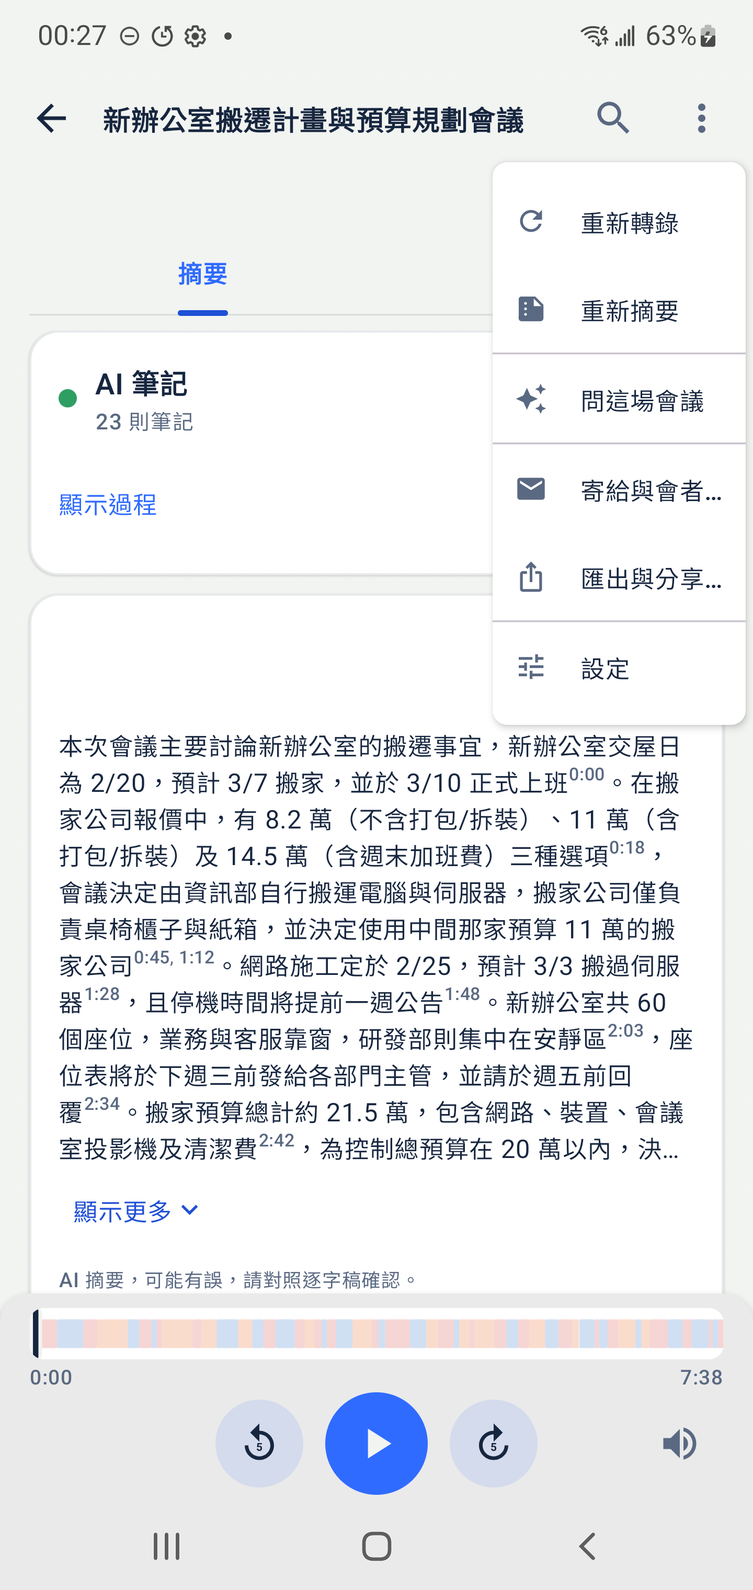
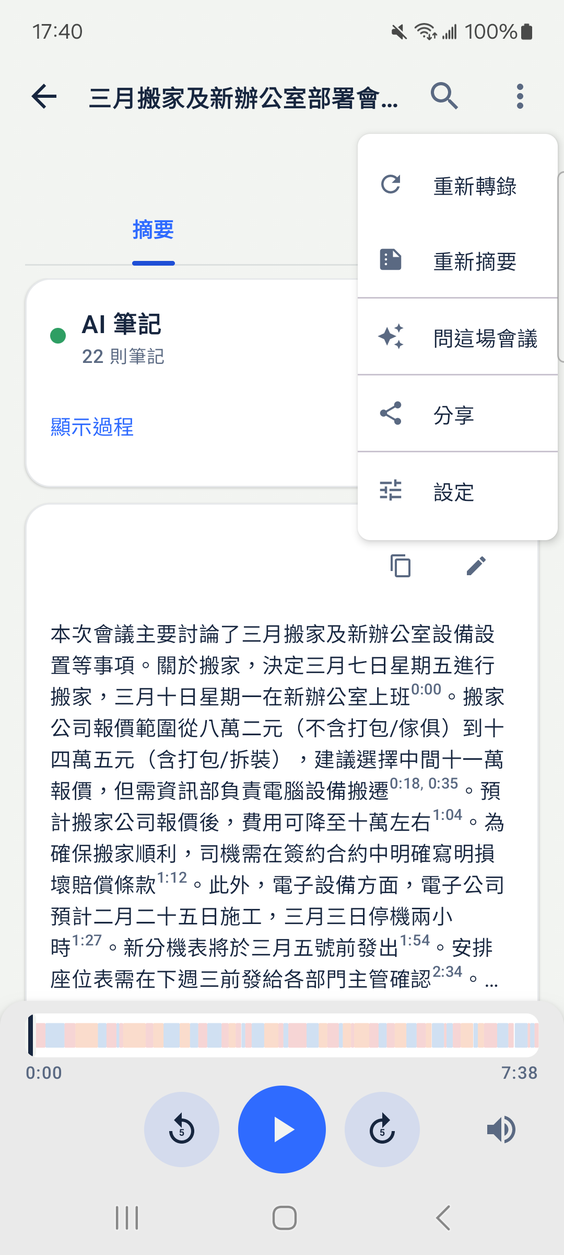
docs(android): Share sheet guide (what/where, PDF|Word), import from the cloud (#7), background episode check
Reshot on the Galaxy A53 with demo meetings: library chips and Podcast
grouping, row and session menus, share sheet, PDF pages, Word document,
mail app chooser, import sheet, background-check setting, channel page,
received meeting; new share.gif. Removed the old Export / Email
participants media and text; README feature and privacy lines updated.

diff --git a/docs/USER_GUIDE.md b/docs/USER_GUIDE.md
@@ -12,15 +12,14 @@
 ```mermaid
 flowchart TD
     Home["首頁（場次庫）"]
-    Home -->|"⋮"| RowMenu["場次選單<br/>開啟・重新命名・分享音訊・刪除<br/>立即處理・從佇列移除・停止處理"]
+    Home -->|"⋮"| RowMenu["場次選單<br/>開啟・重新命名・分享・刪除<br/>立即處理・從佇列移除・停止處理"]
     Home -->|長按| Select["多選模式<br/>全選・刪除"]
     Home -->|搜尋框| Search["依語意搜尋・提問<br/>（第 1a 節）"]
     Home -->|＋| Add["加入音訊"]
-    Add --> File["音訊檔案"]
+    Add --> File["匯入<br/>音訊・影片・.pmin（含雲端硬碟）"]
     Add --> Podcast["Podcast"]
     Add --> Shows["節目（訂閱）"]
     Podcast --> Shows
-    Add --> Open["開啟場次 .ogg/.m4a"]
     Home -->|設定圖示| Settings["設定"]
     Home -->|錄音| Booth["錄音室<br/>即時逐字稿・AI 筆記"]
     Booth -->|下一場| Booth
@@ -29,17 +28,16 @@ flowchart TD
     File --> Session
     Podcast --> Session
     Shows --> Session
-    Open --> Session
     Session --> Summary["摘要分頁<br/>AI 筆記卡片・摘要・語者比例"]
     Settings --> People["說話者名錄<br/>辨識聲音・人物頁"]
-    People --> Contact["人物頁：手機聯絡人・電子郵件"]
+    People --> Contact["人物頁：手機聯絡人"]
     Session --> Transcript["逐字稿分頁<br/>點句播放・長按選單・語者是誰？"]
     Session -->|"放大鏡"| InSearch["在這場會議內搜尋<br/>AI 筆記・逐字稿・≈・✦ 問這場會議"]
     Transcript -->|"⇕"| Boundary["調整說話者分界<br/>拖曳・點字・‹ ›・試聽・從這裡分開・復原"]
     Session --> Player["播放列<br/>播放・±5 秒・進度・音量"]
-    Session -->|"⋮ 更多選項"| More["問這場會議・寄給與會者・重新轉錄・重新摘要・匯出與分享・設定"]
-    More --> Mail["寄給與會者<br/>收件人・內容・附件・預覽"]
-    More --> Export["匯出<br/>.m4a・PDF・MD・TXT・SRT・VTT・LRC"]
+    Session -->|"⋮ 更多選項"| More["問這場會議・分享・重新轉錄・重新摘要・設定"]
+    More --> Share["分享<br/>內容：整場會議・摘要＋逐字稿（PDF／Word）・只有錄音<br/>傳送到：附近・電子郵件・其他 App"]
+    RowMenu --> Share
     More --> Settings
     Recovery["復原對話框<br/>（錄音中被終止後）"] -->|完成轉錄| Session
 ```
@@ -106,7 +104,7 @@ flowchart TD
 
 ## 2. 場次 ⋮ 選單
 
-<img src="guide/02-row-menu.png" width="270" alt="場次選單"> <img src="guide/03-swipe-delete.png" width="270" alt="左滑刪除與復原"> <img src="guide/52-share-text-only.png" width="270" alt="Podcast 場次：不附音訊分享？">
+<img src="guide/02-row-menu.png" width="270" alt="場次選單"> <img src="guide/03-swipe-delete.png" width="270" alt="左滑刪除與復原"> <img src="guide/56-share-sheet.png" width="270" alt="分享面板">
 
 每列右側的 **⋮** 依場次狀態提供不同操作。
 
@@ -114,9 +112,7 @@ flowchart TD
 |---|---|---|---|
 | 開啟 | 已完成 | 開啟場次 | ✅ 手動 |
 | 重新命名 | 一律 | 對話框輸入新標題，確定後列上標題更新（新場次的預設標題為日期時間，如「10月6日 00:11」，摘要完成後換成 AI 擬的標題） | ✅ 手動 |
-| 分享會議 | 已完成 | 把整場會議（音訊、逐字稿、摘要、AI 筆記與你的修改）存成 `.pmin` 檔，透過系統分享面板送出（例如 Quick Share，或傳到 iPhone）；對方用 Prime Minutes 開啟後直接還原，不需模型、不必重新處理 | ✅ 手動（Note 10+ → Galaxy A53） |
-| 分享音訊 | 一律 | 系統分享面板，附 `.m4a` | ✅ 手動 |
-| 分享會議（線上來源） | 來自 Podcast 等線上來源的場次 | 先問「不附音訊分享？」：預設「只分享文字」（逐字稿與摘要的 .txt），也可選「附上音訊」 | ✅ 手動（Note 10+） |
+| 分享 | 已完成 | 開啟分享面板：先選內容，再選傳送到哪裡（第 2a 節） | ✅ 手動（Note 10+、Galaxy A53） |
 | 刪除（或在列上向左滑） | 一律 | 立即從清單移除，底部顯示「已刪除「…」」與 **復原**；幾秒內點復原即放回原處，否則才真正刪除 | ✅ 手動（Note 10+） |
 | 繼續處理 | 處理被中斷（停止、App 被終止）且已留有進度 | 從已存的最後穩定段落接續語音辨識，語者編號與先前一致；已完成的部分不重做 | ✅ 手動 |
 | 立即處理 | 未處理，或已排入佇列且沒有正在處理的項目 | 開始轉錄與摘要；在「停止」之後也能再次開始 | ✅ 手動 |
@@ -127,14 +123,40 @@ flowchart TD
 
 <img src="guide/29-resume-prompt.png" width="270" alt="繼續中斷的場次"> <img src="guide/30-resume-menu.png" width="270" alt="繼續處理">
 
-### 2a. 分享整場會議（.pmin）
+### 2a. 分享與匯出
 
-<img src="guide/02-row-menu.png" width="270" alt="場次動作：分享會議"> <img src="guide/52-share-text-only.png" width="270" alt="Podcast 場次：不附音訊分享？"> <img src="guide/55-received.png" width="270" alt="收到的會議：直接打開，提示可刪除原始檔">
+<img src="guide/56-share-sheet.png" width="270" alt="分享面板：內容"> <img src="guide/57-share-word.png" width="270" alt="摘要＋逐字稿：PDF 或 Word，附上錄音">
 
-1. **送出**：場次列的 ⋮（或場次畫面右上角 ⋮）→ **分享會議** → 在系統分享面板選 **Quick Share**（傳給 iPhone 時對方用 AirDrop 收的 iPhone 版也能開）。檔案是 `標題.pmin`，裡面有音訊、逐字稿、摘要、AI 筆記與你的修改。
-2. **Podcast 等線上來源的場次**：先問「不附音訊分享？」，預設 **只分享文字**（逐字稿與摘要的 .txt）；要連音訊一起送請選「附上音訊」。
-3. **接收**：在 Quick Share 通知或「我的檔案」點 `.pmin`。Samsung「我的檔案」會先跳出 App 選單，選 **Prime Minutes**；App 直接還原整場會議（不需模型、不必重新處理），列上標示 **收到的**，並提示「會議已存入 Prime Minutes，可以刪除「下載」中的原始檔案。」
-4. **重複收到同一場**：詢問「資料庫中已有這場會議」→「開啟現有的」或「保留副本」。
+場次列的 ⋮（或場次畫面右上角 ⋮）→ **分享**。面板分兩步：上面選 **內容**，下面選 **傳送到**。每個選項旁顯示檔案大小。
+
+**內容**
+
+1. **整場會議（.pmin）**：錄音、逐字稿、說話者、摘要、待辦事項、AI 筆記與你的修改，對方用 Prime Minutes（Android 或 iPhone）開啟後直接還原，不需模型、不必重新處理。
+2. **摘要＋逐字稿**：上方選 **PDF** 或 **Word**（記得上次的選擇）。文件依序是標題（日期、長度、與會者）、摘要、待辦事項、逐字稿；摘要與待辦事項裡的每個時間都連到它引用的那段逐字稿，那段旁邊有「↑ 摘要」可跳回。AI 筆記不放進文件（只在 .pmin 裡）。待辦事項一律附上，不受「顯示行動項目」設定影響。開啟 **附上錄音** 會另外附一個 `.m4a`；錄音很大或來自 Podcast 等線上來源時預設關閉。
+3. **只有錄音（.m4a）**。
+
+含錄音的選項會提醒「含所有與會者的聲音」；線上來源的場次提醒版權屬於發布者。
+
+**傳送到**
+
+- **附近（Quick Share）**：傳到旁邊的手機或電腦（傳給 iPhone 時，對方用 AirDrop 收的 iPhone 版也能開 .pmin）。
+- **電子郵件**：直接開啟郵件 App，檔案已附上、主旨是會議標題，由你填收件人再寄出；超過 25 MB 時提醒很多郵件伺服器會拒收。
+- **其他 App…**：系統分享面板（LINE 等）。
+
+App 不登入任何帳號，也不直接上傳到雲端。
+
+<img src="guide/59-pdf-page1.png" width="270" alt="PDF 第一頁：標題、摘要、待辦事項"> <img src="guide/60-pdf-transcript.png" width="270" alt="PDF 逐字稿頁：時間欄與說話者"> <img src="guide/61-docx.png" width="270" alt="Word 文件"> <img src="guide/62-mail-chooser.png" width="270" alt="電子郵件：選擇郵件 App，檔案已附上">
+
+**接收**：在 Quick Share 通知、「我的檔案」或雲端硬碟 App 點 `.pmin`（Samsung「我的檔案」會先跳出 App 選單，選 **Prime Minutes**）。App 直接還原整場會議，列上標示 **收到的**，並提示「會議已存入 Prime Minutes，可以刪除「下載」中的原始檔案。」；資料庫已有同一場時詢問「開啟現有的」或「保留副本」。
+
+<img src="guide/55-received.png" width="270" alt="收到的會議">
+
+| 節點 | 預期結果 | 驗證 |
+|---|---|---|
+| 分享面板 | 內容三選一（含大小）、PDF／Word、附上錄音、傳送到三類 | ✅ 手動（Note 10+、Galaxy A53）、✅ 自動（ShareKitTest） |
+| PDF／Word | 標題、摘要、待辦事項、逐字稿；時間連到逐字稿、「↑ 摘要」連回；無 AI 筆記 | ✅ 自動（PdfExportTest、DocxExportTest、ExportNotesTest） |
+| 電子郵件 | 只列郵件 App（有多個時讓你選），選定後開啟撰寫畫面，檔案已附上 | ✅ 手動（Galaxy A53：選擇畫面；撰寫畫面未截圖，避免顯示帳號） |
+| 收到 .pmin | 還原、標示「收到的」、重複時詢問 | ✅ 手動（Galaxy A53） |
 
 ## 3. 多選模式
 
@@ -152,19 +174,18 @@ flowchart TD
 
 ## 4. 加入音訊
 
-<img src="guide/07-add-source.png" width="270" alt="加入音訊"> <img src="guide/54-online-notice.png" width="270" alt="匯入前請留意"> <img src="guide/08-podcast.png" width="270" alt="Podcast">
+<img src="guide/63-import-cloud.png" width="270" alt="加入音訊：匯入（含雲端）"> <img src="guide/54-online-notice.png" width="270" alt="匯入前請留意"> <img src="guide/08-podcast.png" width="270" alt="Podcast">
 
 處理事先錄好的音訊。也可以從其他 App 把音訊「分享」給 Prime Minutes。
 
 | 節點 | 如何到達 | 預期結果 | 驗證 |
 |---|---|---|---|
-| 音訊檔案 | ＋ → 音訊檔案 | 系統檔案選擇器；選取後轉錄並摘要（長時間的靜音會快速略過） | ✅ 手動、✅ 自動（AddSourceSheetTest） |
+| 匯入 | ＋ → 匯入 | 系統檔案選擇器，可選音訊、影片或 `.pmin` 會議，也可從 Google Drive、Dropbox、OneDrive 選檔（第 4b 節）；音訊與影片轉錄並摘要（長時間的靜音會快速略過），`.pmin` 直接還原 | ✅ 手動、✅ 自動（AddSourceSheetTest） |
 | Podcast → 搜尋 → 節目 → 轉錄 | ＋ → Podcast | 列出單集與長度；選取後首頁立刻出現這一集（標題即單集名稱），標示下載進度，下載完成後自動轉錄（正在處理其他項目時排在其後） | ✅ 手動、✅ 自動（SourceSheetsTest，搜尋） |
 
 <img src="guide/27-podcast-episodes.png" width="270" alt="Podcast 單集">
 | YouTube／PeerTube 連結 | 其他 App 把 YouTube 或 PeerTube 連結傳給 Prime Minutes（Prime Minutes 不在文字的分享選單中，一般不會發生） | 不再匯入：顯示「不支援影片連結」說明。舊版排入但尚未下載的影片會標示「已不再支援匯入 YouTube 與 PeerTube」，可刪除；已轉錄的場次不受影響 | ✅ 手動（Note 10+） |
 | 第一次線上匯入 | 第一次按 ＋ → Podcast 或 節目 | 先顯示「匯入前請留意」：僅供個人使用、須自行確認有權下載與轉錄、遵守發布者條款；按「我了解」後不再出現 | ✅ 手動（Note 10+） |
-| 開啟場次（.ogg / .m4a） | ＋ → 開啟場次 | 開啟先前匯出的 Prime Minutes 檔，含逐字稿與摘要 | ✅ 手動、✅ 自動（AddSourceSheetTest） |
 | 收到的會議（.pmin） | 在 Quick Share、檔案管理（例如 Samsung「我的檔案」）或其他 App 點 `.pmin` 檔 | 開啟 Prime Minutes 並還原整場會議，列在「收到的」，提示「會議已存入 Prime Minutes，可以刪除「下載」中的原始檔案。」；資料庫已有同一場時詢問「開啟現有的」或「保留副本」 | ✅ 手動（Galaxy A53） |
 | 從其他 App 分享 | 其他 App → 分享 → Prime Minutes | 閒置時直接轉錄；處理中時詢問「匯入這個檔案？」（匯入會中斷處理） | ✅ 手動 |
 | Podcast 下載中斷線 | 下載單集音訊時網路中斷 | 不當成失敗：該列與場次畫面顯示「下載已暫停 · 會自動繼續」；網路恢復、回到 App 或按「立即繼續」後從中斷處接續，下載完成後照常轉錄 | ✅ 手動（Note 10+，Podcast：下載中切斷 Wi‑Fi 與行動數據 → 暫停、已下載部分保留 → 恢復後接續） |
@@ -173,11 +194,17 @@ flowchart TD
 
 <img src="guide/26-import-confirm.png" width="270" alt="匯入確認"> <img src="guide/41-import-paused.png" width="270" alt="下載中的 Podcast 單集：首頁的一列"> <img src="guide/42-item-download.png" width="270" alt="下載中的場次畫面">
 
+### 4b. 從雲端匯入
+
+錄音存在 Google Drive、Dropbox 或 OneDrive（例如會議室電腦錄好後上傳）時：＋ → **匯入** → 在系統檔案選擇器左上角的選單選該雲端（手機上要先安裝並登入那個 App），再點檔案。檔案會先下載到手機，再像一般匯入一樣在手機上轉錄；`.pmin` 會議直接還原。Prime Minutes 本身不登入任何雲端帳號。選擇器裡看不到某個雲端時，先打開那個 App 一次，或在選擇器的「瀏覽」中啟用它。
+
 ### 4a. Podcast 訂閱（節目）
 
 <img src="guide/43-subs-list.png" width="270" alt="節目清單"> <img src="guide/44-subs-show.png" width="270" alt="節目頁"> <img src="guide/50-podcast-filter.png" width="270" alt="首頁的 Podcast 篩選：單集依節目分組">
 
-**訂閱＝儲存節目連結，不付費、無背景連線。** App 不會在背景自動檢查或下載；新集數只在你按「檢查新集數」／「全部檢查」，或打開超過 24 小時沒檢查的節目頁時才去抓（一次一個 RSS 請求）。取得的單集走與上面「Podcast → 轉錄」完全相同的下載與轉錄流程。
+**訂閱＝儲存節目連結，不付費。** 新集數在你按「檢查新集數」／「全部檢查」，或打開超過 24 小時沒檢查的節目頁時去抓（一次一個 RSS 請求）。開啟 **設定 → 在背景檢查新集數** 後，App 每天在 Wi‑Fi 下讀一次已訂閱節目的 RSS（暫停的節目略過），有新集時發通知；背景只讀節目清單，不下載任何單集。這個開關預設關閉；關閉時 App 完全不在背景連線。取得的單集走與上面「Podcast → 轉錄」完全相同的下載與轉錄流程。
+
+<img src="guide/64-bg-check.png" width="270" alt="設定：在背景檢查新集數"> <img src="guide/66-channel.png" width="270" alt="節目頁">
 
 | 節點 | 如何到達 | 預期結果 | 驗證 |
 |---|---|---|---|
@@ -188,6 +215,7 @@ flowchart TD
 | 下載並轉錄 | 節目頁 → 某集「下載並轉錄」 | 首頁立刻出現這一集並下載、轉錄；同一集再按一次不會產生第二列，而是提示「已在場次庫 · 開啟該場次」 | ✅ 手動（Note 10+，重複提交只得一列） |
 | 空間不足 | 可用空間不足以放下這一集（約檔案 3 倍＋200 MB） | 不下載，提示「空間不足 · 等待空間」；下載途中磁碟寫滿時該列顯示同一句並暫停（保留已下載部分），有空間後自動接續，不標為失敗 | ✅ 手動（Note 10+，`vox_sub_lowspace` 模擬）、✅ 自動（以錯誤訊息判斷，網路錯誤不誤判） |
 | 暫停／繼續訂閱、分享、刪除 | 節目清單長按一列，或節目頁右上角 ⋮ | 暫停後「全部檢查」略過它（節目頁手動檢查仍可用）；分享送出「節目名稱 — RSS 連結」；刪除後可在提示列「復原」，已下載的場次保留 | ✅ 手動（Note 10+，暫停後全部檢查略過） |
+| 在背景檢查新集數 | 設定 → Podcast | 預設關閉；開啟後每天在 Wi‑Fi 下檢查一次，有新集時通知「新增 N 集」，點通知開節目清單；通知被關閉時只在節目清單顯示徽章；不下載內容 | ✅ 手動（Galaxy A53）、✅ 自動（BackgroundCheckTest） |
 | 節目搬家 | 節目的 RSS 永久轉址（301/308） | 自動改用新連結並提示「訂閱連結已搬家 · 已追隨新連結」；已看過的集數不受影響；暫時轉址不改連結 | ✅ 自動（SubscriptionsTest） |
 | 檢查失敗 | 來源已下架、需付費、不是 RSS、沒有音訊 | 節目頁顯示「訂閱來源失效：原因」，保留上次的單集清單 | ✅ 自動（SubscriptionsTest） |
 
@@ -297,9 +325,9 @@ flowchart TD
 
 ## 8. 播放列與場次選單
 
-<img src="guide/16-volume.png" width="270" alt="音量"> <img src="guide/20-session-menu.png" width="270" alt="場次選單"> <img src="guide/21-export.png" width="270" alt="匯出">
+<img src="guide/16-volume.png" width="270" alt="音量"> <img src="guide/20-session-menu.png" width="270" alt="場次選單">
 
-播放列的色塊代表語者，點或拖曳可跳轉。右上 **⋮**（更多選項）提供重新處理與匯出。
+播放列的色塊代表語者，點或拖曳可跳轉。右上 **⋮**（更多選項）提供重新處理與分享。
 
 | 節點 | 如何到達 | 預期結果 | 驗證 |
 |---|---|---|---|
@@ -310,10 +338,7 @@ flowchart TD
 | 重新轉錄 | ⋮ | 重跑語音辨識與語者分離，標題保留；若你改過逐字稿文字，會先詢問「要捨棄你修改的逐字稿嗎？」 | ✅ 手動、✅ 自動（SessionReducerTest） |
 | 重新摘要 | ⋮ | 只重跑 AI 筆記與摘要；筆記不重複。若你改過摘要或行動項目，會先詢問「要取代你編輯過的摘要嗎？」，完成後仍可按「復原」取回 | ✅ 手動、✅ 自動（SessionReducerTest） |
 | 問這場會議 | ⋮ | 只根據這場會議作答（第 7b 節） | ✅ 手動（Note 10+、模擬器） |
-| 寄給與會者… | ⋮ | 寄給與會者面板（第 9b 節） | ✅ 手動（Note10+） |
-| 匯出與分享… | ⋮ | 匯出選單 | ✅ 手動、✅ 自動（ExportSheetTest） |
-| 匯出：.m4a／PDF／MD／TXT／SRT／VTT／LRC → 儲存或分享 | 匯出選單 | 存檔或系統分享 | ✅ 手動（MD 儲存）、✅ 自動（ExportSheetTest、PdfExportTest） |
-| 複製逐字稿 | 匯出選單底部 | 提示「已複製逐字稿」 | ✅ 手動 |
+| 分享 | ⋮ | 分享面板（第 2a 節） | ✅ 手動（Note 10+、Galaxy A53） |
 | 設定 | ⋮ | 設定（第 9 節） | ✅ 手動 |
 
 ## 9. 設定
@@ -335,7 +360,8 @@ flowchart TD
 | 語音轉寫延遲：0.16／0.48／0.96／1.92 秒（預設 1.92 秒） | 說話後文字出現所需的時間；延遲越長，文字越準確（即時顯示與儲存的逐字稿皆是）。選擇新的延遲會在背景下載對應的語音模型（約 155 MB，依下載設定），下載完成前仍以已安裝、最接近的模型轉寫；新模型第一次載入後刪除其他延遲的模型 | ✅ 手動（模擬器：切換、下載、刪除舊模型）、✅ 自動（AsrRegistryTest、DownloadPlanTest） |
 | AI 筆記模型：行動版 E2B／行動版 E4B | 下次閱讀時使用所選模型（未下載時先下載）；E4B 只在 RAM 8 GB 以上的手機可選 | ✅ 手動（Note 10+：E2B、E4B） |
 | 推論：執行 AI 基準測試 | 以一段 60 秒的會議錄音測量本機的語音辨識、語者分離與摘要速度，約需一到兩分鐘 | ⬜ |
-| 實驗功能：顯示行動項目 | 摘要下方出現行動項目卡片 | ✅ 手動 |
+| 實驗功能：顯示行動項目 | 摘要下方出現行動項目卡片（分享的 PDF／Word 一律附上待辦事項，不受此設定影響） | ✅ 手動 |
+| Podcast：在背景檢查新集數 | 預設關閉；開啟後每天在 Wi‑Fi 下讀已訂閱節目的 RSS，有新集時通知（第 4a 節） | ✅ 手動（Galaxy A53）、✅ 自動（BackgroundCheckTest） |
 | 向會議提問（預設開啟） | 首頁搜尋框右側出現「提問」（第 1a 節）；需要 AI 筆記模型與搜尋模型 | ✅ 手動（Note 10+） |
 | 儲存空間：下載搜尋模型／為舊會議建立索引 | 未下載時顯示「下載搜尋模型（約 160 MB）」；下載後顯示待建立索引的會議數與「為舊會議建立索引」，全部完成時顯示「所有會議都已建立搜尋索引。」 | ✅ 手動 |
 | 儲存空間：模型與刪除 | 顯示用量；刪除前確認「刪除這個模型？」，刪除後下次使用時重新下載 | ✅ 手動 |
@@ -365,23 +391,17 @@ flowchart TD
 | 人物頁：全部改名、備註、合併、刪除、分出某場會議 | 改寫每場相關會議；以新的人命名後重開仍在 | ✅ 手動、✅ 自動（單元測試） |
 
 
-## 9b. 聯絡人與寄給與會者
+## 9b. 聯絡人
 
-<p><img src="screenshots/people-contact.png" width="200" alt="人物頁：聯絡人與可直接新增、移除的電子郵件"> <img src="screenshots/mail-participants.png" width="200" alt="寄給與會者"></p>
+<p><img src="screenshots/people-contact.png" width="200" alt="人物頁：聯絡人"></p>
 
-人物頁的 **聯絡人** 卡片顯示「聯絡人：名字」與 **在聯絡人中編輯**（開啟系統聯絡人 App）；聯絡人在系統中被刪除時，會議裡仍保留這個名字。**電子郵件** 卡片列出聯絡人上的地址：★ 為寄信時預設使用的地址；**新增電子郵件** 與每個地址旁的移除，都直接寫回手機聯絡人（重複或格式錯誤會提示）。為語者命名為新的人之後，App 會順手詢問電子郵件（可略過）。「我」的人物頁可用 **聯絡人中的我…** 連結到你自己的聯絡人卡片。
-
-會議選單 → **寄給與會者…**（語者卡片也有按鈕）：收件人預先勾選這場會議中有電子郵件的人，「我」不勾選；沒有地址的人可直接輸入（存入此人）；未命名的語者顯示「命名」；「新增其他收件人」只用於這封信，不存入名錄。內容：摘要、紀要、只要決議與待辦；附件：無、PDF、TXT、`.m4a`（超過 20 MB 時提醒）；郵件語言（只換範本文字，筆記不翻譯）；「預覽」顯示完整內文。**在郵件 App 中開啟** 只交給郵件 App（有多個時讓你選），沒有郵件 App 時改用分享選單並複製地址；**分享到其他 App…** 送出較短的聊天版本。App 不知道信是否送出，只記錄「上次分享」。
+人物頁的 **聯絡人** 卡片顯示「聯絡人：名字」與 **在聯絡人中編輯**（開啟系統聯絡人 App）；聯絡人在系統中被刪除時，會議裡仍保留這個名字。「我」的人物頁可用 **聯絡人中的我…** 連結到你自己的聯絡人卡片。要把會議寄給別人，用 **分享 → 電子郵件**（第 2a 節）。
 
 | 節點 | 預期結果 | 驗證 |
 |---|---|---|
-| 命名為新的人 | 在手機聯絡人中建立這個人，可順手新增電子郵件；未允許聯絡人權限時只能輸入這場會議的名字 | ✅ 手動（Note10+）、✅ 自動（OsContactsTest、ContactEmailOpsTest） |
+| 命名為新的人 | 在手機聯絡人中建立這個人；未允許聯絡人權限時只能輸入這場會議的名字 | ✅ 手動（Note10+）、✅ 自動（OsContactsTest） |
 | 加入聯絡人卡片 | 舊版 App 內的人員依電子郵件或名字連結到既有聯絡人，其餘新建；不重複 | ✅ 自動（OsContactsTest） |
-| 【會議資訊】時間 | 錄音：實際開始到結束的時間；匯入：檔案本身記錄的建立時間（如手機錄音檔），沒有時就不列時間、只列日期；更新前的舊會議照舊 | ✅ 手動（模擬器：有日期與無日期的匯入）、✅ 自動（MediaDateTest、MeetingMailTest） |
-| 郵件內文 | 與設計範本逐位元相同（中文、英文、只要決議與待辦、mailto 長度上限、聊天版） | ✅ 自動（Android 與 iOS 共用的黃金檔） |
-| 在郵件 App 中開啟 | 只開郵件 App，帶收件人、主旨、內文與附件 | ✅ 手動（Note10+ 開啟 Outlook；內容未在已登入的郵件 App 中確認） |
-| 分享到其他 App | 系統分享選單，附件一併帶出 | ✅ 手動（Note10+） |
-| 刪除某人 | 從各會議的上次分享紀錄移除 | ✅ 自動（單元測試） |
+
 ## 10. 中斷錄音的復原
 
 <img src="guide/25-recovery.png" width="270" alt="復原對話框">
@@ -428,9 +448,9 @@ Compose 介面測試需在實機上執行（x86_64 模擬器上會出現 “Unab
 
 <p><img src="screenshots/people-voice-zh.gif" width="220" alt="為語者命名：依聲音建議陳經理"><br><sub>在尾牙示範會議命名「陳經理」後，App 在辦公室搬遷會議依聲音建議他。英文介面（AMI 公開會議）：<a href="screenshots/people-voice-en.gif">為語者命名</a>、<a href="screenshots/people-people-en.png">名錄</a>、<a href="screenshots/people-person-en.png">人物頁</a>、<a href="screenshots/people-voice-explain-en.png">說明</a>。</sub></p>
 
-| 匯出 | 重新處理 | 設定 | 匯入 |
+| 分享 | 重新處理 | 設定 | 匯入 |
 |:---:|:---:|:---:|:---:|
-| <img src="screenshots/export.png" width="200" alt="匯出"> | <img src="screenshots/reprocess.png" width="200" alt="重新處理"> | <img src="screenshots/settings.png" width="200" alt="設定"> | <img src="screenshots/import.png" width="200" alt="匯入"> |
+| <img src="screenshots/share.gif" width="200" alt="分享：Word 寄出"> | <img src="screenshots/reprocess.png" width="200" alt="重新處理"> | <img src="screenshots/settings.png" width="200" alt="設定"> | <img src="screenshots/import.png" width="200" alt="匯入"> |
 
 ## 附錄 B. 運作方式
 

diff --git a/README.md b/README.md
@@ -39,8 +39,8 @@
 - **說話者名錄**：人就是手機的聯絡人，名字跨會議共用、電子郵件存在聯絡人中；「辨識聲音」可在之後的會議建議名字（選用）。
 - **編輯**：修改文字、改派或合併語者、修正換人位置，可復原。
 - **會議庫依來源分類**：會議、Podcast、收到的分開篩選；Podcast 依節目分組，節目頁列出新集數與已在會議庫的單集。
-- **匯入與匯出**：匯入音訊檔、Podcast（單集或訂閱節目）；匯出 PDF、Markdown、純文字、字幕，或寄給與會者。
-- **分享整場會議**：用 Quick Share／AirDrop 傳 `.pmin` 檔，對方用 Prime Minutes 一點就打開，逐字稿、筆記、摘要都在，Android 與 iPhone 互通。
+- **匯入**：音訊、影片或 `.pmin` 會議，也可直接從 Google Drive、Dropbox、OneDrive 選檔；Podcast 單集或訂閱節目（可選擇在背景每天檢查新集數）。
+- **分享**：一個「分享」面板，先選內容（整場會議 `.pmin`、摘要＋逐字稿的 PDF 或 Word、只有錄音），再選附近分享、電子郵件或其他 App。文件裡的每個時間都連到原話；`.pmin` 對方用 Prime Minutes 一點就打開，Android 與 iPhone 互通。
 
 | 錄音 | AI 筆記 | 摘要 | 逐字稿 |
 |:---:|:---:|:---:|:---:|
@@ -51,21 +51,21 @@
 1. 開啟 App，下載模型（可選「僅限 Wi‑Fi」）。
 2. 按錄音鈕開始；逐字稿即時出現。
 3. 按 **停止並儲存**（或 **下一場** 接著錄），摘要、筆記與標題自動完成。
-4. 點時間點核對原話，長按逐字稿修正，從 **⋮** 匯出或寄給與會者。
+4. 點時間點核對原話，長按逐字稿修正，從 **⋮ → 分享** 傳出 PDF、Word 或整場會議。
 
 每個畫面的說明見 [使用說明](docs/USER_GUIDE.md)。
 
 ## 隱私
 
 - 音訊、逐字稿、筆記與聲音資料只存在你的手機上，所有模型都在手機 CPU 上執行。
-- 只有下載模型、Podcast（含你按下的節目檢查）與每天檢查新版會連網。
+- 只有下載模型、Podcast（你按下的節目檢查，或你開啟的每日背景檢查，只讀節目清單）與每天檢查新版會連網。App 不登入任何帳號，也不上傳到雲端。
 - 「辨識聲音」預設關閉，聲音資料不會匯出或備份，可隨時刪除。為他人命名前請先徵得同意。
-- 寄給與會者只是開啟你的郵件 App，App 本身不寄信。
+- 「分享 → 電子郵件」只是開啟你的郵件 App 並附上檔案，App 本身不寄信。
 
 ## 使用責任
 
 - 你匯入、轉錄或分享的內容由你自己負責。Podcast 等線上內容僅供個人使用，請先確認你有權下載並轉錄，並遵守發布者的條款。
-- 來自線上來源的場次，「分享會議」預設只分享逐字稿與摘要，不附音訊。
+- 來自線上來源的場次，「分享」預設選摘要＋逐字稿，不附音訊，並提醒音訊的版權屬於發布者。
 - 若你認為本專案的內容侵害你的權利，或要求移除，請到 [GitHub Issues](https://github.com/vieenrose/PrimeMinutes/issues) 聯絡我們。
 
 ## 需求與模型
